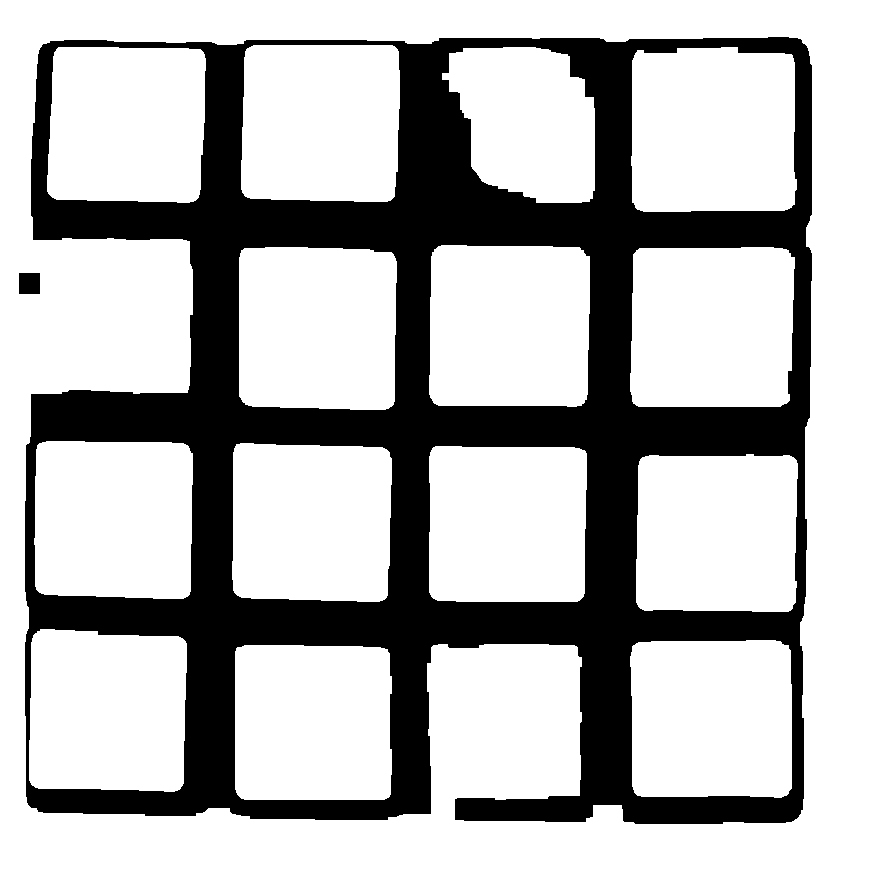
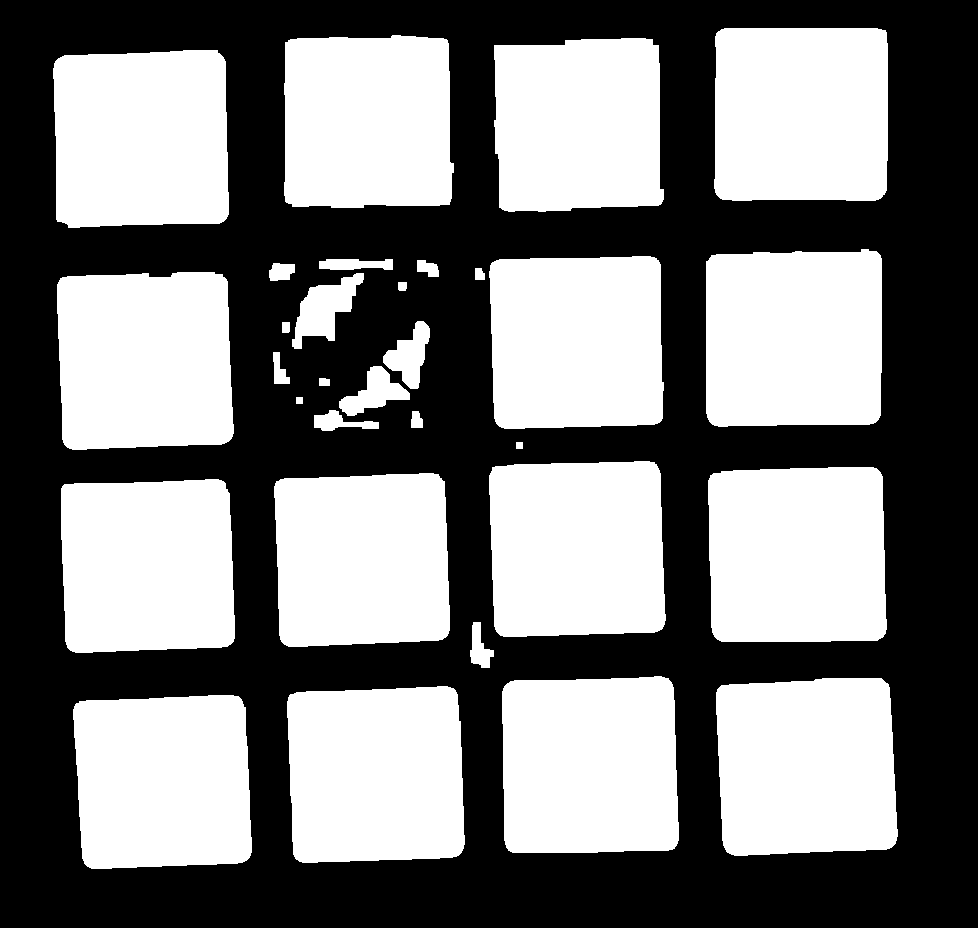
fix main

diff --git a/main.py b/main.py
@@ -11,7 +11,7 @@ def checkInRange(colors, curr_pixel):
             return key
 
 def main():
-    image = cv2.imread('f2.png')
+    image = cv2.imread('f1.png')
     # print(image)
     original = image.copy()
 
@@ -21,7 +21,7 @@ def main():
 
     print(type(image[0, 0]))
 
-    image = cv2.cvtColor(image, cv2.COLOR_BGR2HSV)
+    masked_img = cv2.cvtColor(image, cv2.COLOR_BGR2HSV)
     cv2.imshow('hsv', image)
     mask = np.zeros(image.shape, dtype=np.uint8)
 
